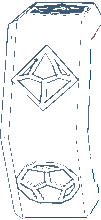
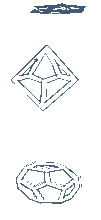
cups

diff --git a/src/App.jsx b/src/App.jsx
@@ -67,9 +67,9 @@ const HammerTime = () => {
 
       <div className='theHammer'>
         <div className='upperHammer'>
-          <div className="cups" style={{backgroundColor: cupsColor}}></div>
+          <img src='cupL.png' className='cups' style={{backgroundColor: cupsColor}}></img>
           <div className="head" style={{backgroundColor: headColor}}></div>
-          <div className="cups" style={{backgroundColor: cupsColor}}></div>
+          <img src='cupR.png' className='cups' style={{backgroundColor: cupsColor}}></img>
         </div>
         <div className='lowerHammer'>
           <div className="shaft" style={{backgroundColor: shaftColor}}></div>
